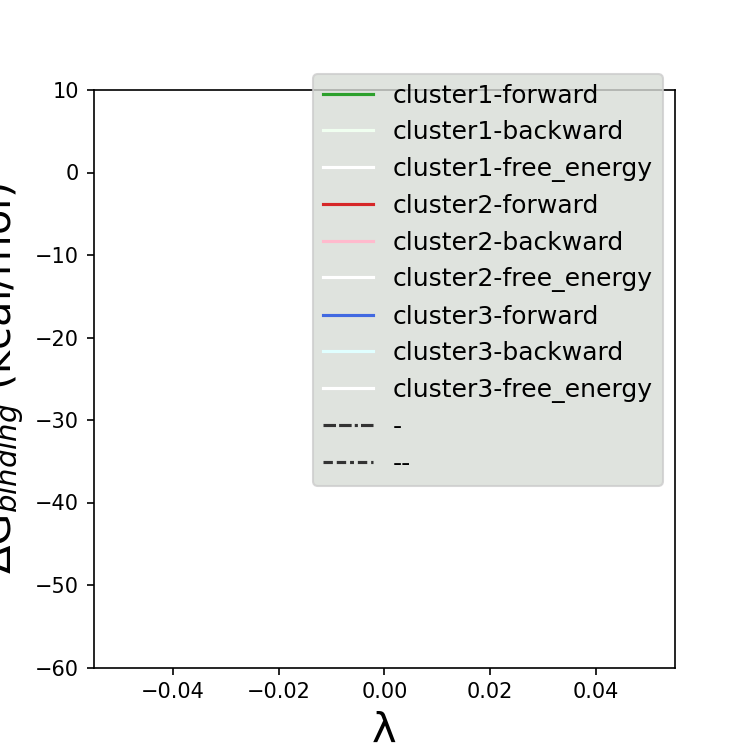
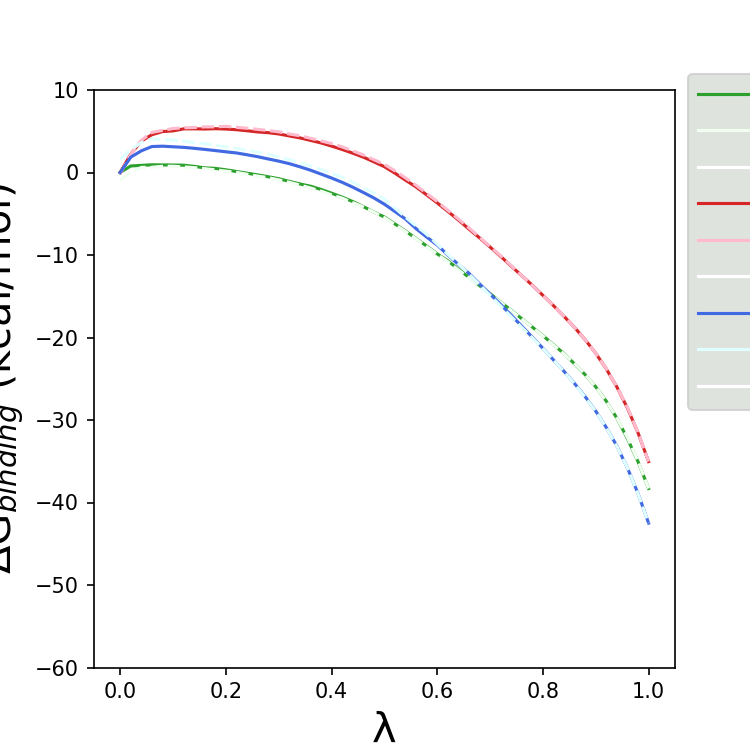
Mostly fixed dG plot

diff --git a/plotFEP.py b/plotFEP.py
@@ -84,10 +84,11 @@ def get_colorscheme(n):
 
 def plot_paths(dframe, n, colors):
     fig, ax = plt.subplots(1,1, figsize=(5,5))
-    style = ['-', '--', ''] * n
+    style = ['-']*51 + ['--']*51 + ['x']
+    style = style * n
     
-    sns.lineplot(data=dframe, x='lambda', y='dA', hue='hue', style='hue',
-                    ax=ax, palette=colors, style_order=style)
+    sns.lineplot(data=dframe, x='lambda', y='dA', hue='hue', style=style,
+                    ax=ax, palette=colors)
     
     ax.set_xlabel('\u03BB', fontsize=20)
     ax.set_ylabel('\u0394G$_{binding}$ (kcal/mol)', fontsize=20)
@@ -96,7 +97,18 @@ def plot_paths(dframe, n, colors):
     ymax = ((df['dA'].max() // 10) + 1) * 10
     ax.set_ylim(ymin, ymax)
     
-    legend = plt.legend(bbox_to_anchor=(1, 1.05), prop={'size': 12})
+    h, l = ax.get_legend_handles_labels()
+    labels = []
+    for label in l[:-3]:
+        if 'free_energy' in label:
+            lab = f'{label.split("-")[0].capitalize()} \u0394G = '
+            lab += f'{dframe.loc[dframe["hue"] == label, "dA"].values[0]:.2f}'
+        else:
+            lab = ' '.join([x.capitalize() for x in label.split('-')])
+
+        labels.append(lab)
+
+    legend = plt.legend(h[:-3], labels, bbox_to_anchor=(1, 1.05), prop={'size': 12})
     frame = legend.get_frame()
     frame.set_facecolor('xkcd:light grey')
 
@@ -110,7 +122,6 @@ def plot_ddG(df, sat_colors, names):
     fe = df.loc[df['direction'] == 'free_energy', 'dA':'hue'].reset_index(drop=True)
     fe['X'] = fe.index * 2 / 10 + 1
     fe['deltaG'] = df['dA'] / df['dA'].max()
-    print(fe)
 
     sns.scatterplot(data=fe, x='X', y='deltaG', hue='hue', palette=sat_colors)
 
